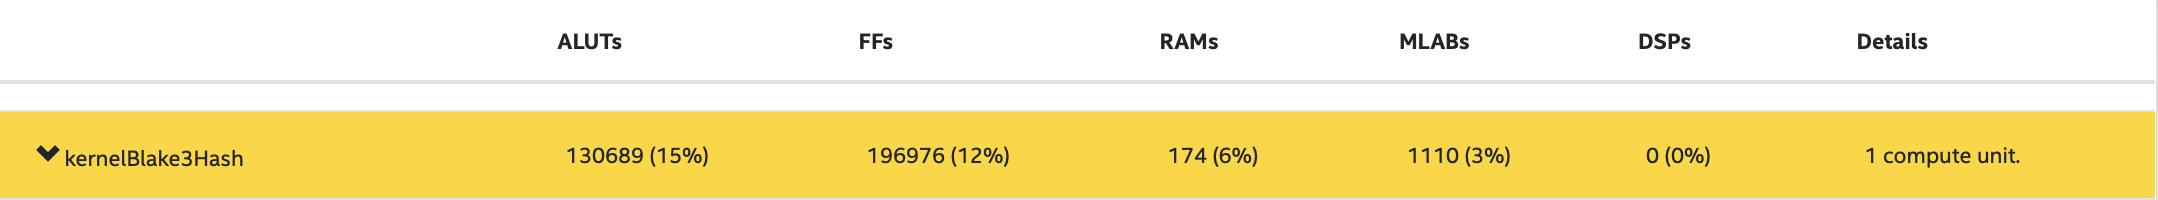
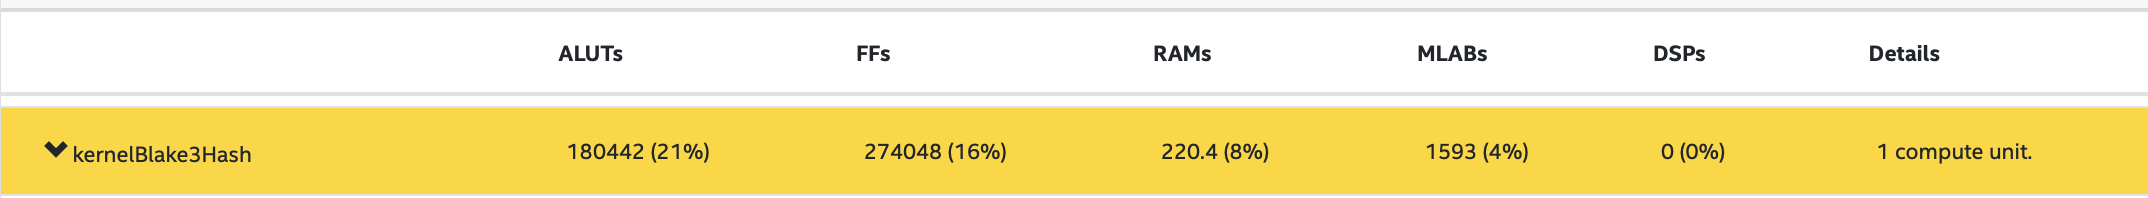
updated benchmark results; added new final reports based on h/w image

diff --git a/include/blake3.hpp b/include/blake3.hpp
@@ -241,8 +241,8 @@ hash(sycl::queue& q,                       // SYCL compute queue
   // temporary memory allocation on global memory for keeping all intermediate
   // chaining values
   //
-  // note, chaining values are organized as nodes are kept in computed ( all
-  // intermediate nodes ) binary merkle tree
+  // note, chaining values are organized as nodes are kept in fully computed (
+  // all intermediate nodes, along with leaves ) binary merkle tree
   //
   // @todo this allocation size can be improved !
   const size_t mem_size = (chunk_count * OUT_LEN) << 1;
@@ -419,7 +419,7 @@ hash(sycl::queue& q,                       // SYCL compute queue
           msg_3_ptr[i] = word_from_le_bytes(i_ptr + i_offset_3 + (i << 2));
         }
 
-        // compress these message block(s)
+        // compress four message block(s) from four consecutive chunks
         compress(state_0_ptr, msg_0_ptr);
         compress(state_1_ptr, msg_1_ptr);
         compress(state_2_ptr, msg_2_ptr);
@@ -501,11 +501,11 @@ hash(sycl::queue& q,                       // SYCL compute queue
           state_1_ptr[14] = BLOCK_LEN;
           state_1_ptr[15] = PARENT;
 
-          // compressing this message block
+          // compressing two message blocks, living next to each other
           compress(state_0_ptr, msg_0_ptr);
           compress(state_1_ptr, msg_1_ptr);
 
-        // producing parent chaining value
+        // producing parent chaining values
 #pragma unroll 8
           for (size_t j = 0; j < 8; j++) {
             mem_ptr[o_offset_0 + j] = state_0_ptr[j];

diff --git a/README.md b/README.md
@@ -196,20 +196,20 @@ running on pac_a10 : Intel PAC Platform (pac_ee00000)
 Benchmarking BLAKE3 FPGA implementation
 
               input size                  execution time                host-to-device tx time          device-to-host tx time
-                   1 MB                  138.668875 us                   342.348125 us                    81.991625 us
-                   2 MB                  257.963375 us                   594.499625 us                    60.931750 us
-                   4 MB                  499.991375 us                   922.121750 us                    77.566750 us
-                   8 MB                  985.338250 us                     1.562302 ms                    76.989375 us
-                  16 MB                    1.961749 ms                     2.921717 ms                    76.725375 us
-                  32 MB                    3.918744 ms                     6.239170 ms                    78.779250 us
-                  64 MB                    7.818283 ms                    12.604511 ms                    87.071000 us
-                 128 MB                   15.637260 ms                    23.531873 ms                    80.121250 us
-                 256 MB                   31.254826 ms                    43.690892 ms                    75.809000 us
-                 512 MB                   62.450432 ms                    84.990691 ms                    80.160750 us
-                1024 MB                  124.960085 ms                   167.462934 ms                    89.227750 us
+                   1 MB                  138.487375 us                   421.993125 us                    61.492625 us
+                   2 MB                  259.962875 us                   696.308000 us                    85.265375 us
+                   4 MB                  496.056500 us                     1.091515 ms                    84.755625 us
+                   8 MB                  985.286625 us                     1.674159 ms                    82.991875 us
+                  16 MB                    1.941844 ms                     3.048934 ms                    63.686000 us
+                  32 MB                    3.848572 ms                     6.395413 ms                    71.175375 us
+                  64 MB                    7.703389 ms                    12.999837 ms                    82.688000 us
+                 128 MB                   15.282095 ms                    23.696630 ms                    87.255250 us
+                 256 MB                   31.177414 ms                    44.916047 ms                    84.804875 us
+                 512 MB                   61.033350 ms                    86.641925 ms                    98.026375 us
+                1024 MB                  122.169668 ms                   170.085517 ms                    90.151250 us
 ```
 
-Note, this design can benefit from replicating data path which compresses message blocks many more number of times ( currently replication factor set to 2 ), but that comes with increased resource consumption. This primary design, which interacts with global memory quite often, slows down due to high global memory access latecy.
+Note, this design can benefit from replicating data path which compresses message blocks many more number of times ( currently replication factor set to 1 ), but that comes with increased resource consumption. This primary design, which interacts with global memory quite often, slows down due to high global memory access latency.
 
 Future efforts that can be put in improving this design is reducing interaction with global memory system and increasing usage of on-chip ( stall-free ) BRAM for double bufferring purposes, while synthesizing more ( power of 2 -many ) replicas of BLAKE3 `compress( ... )` function, at cost of higher resource usage.
 
